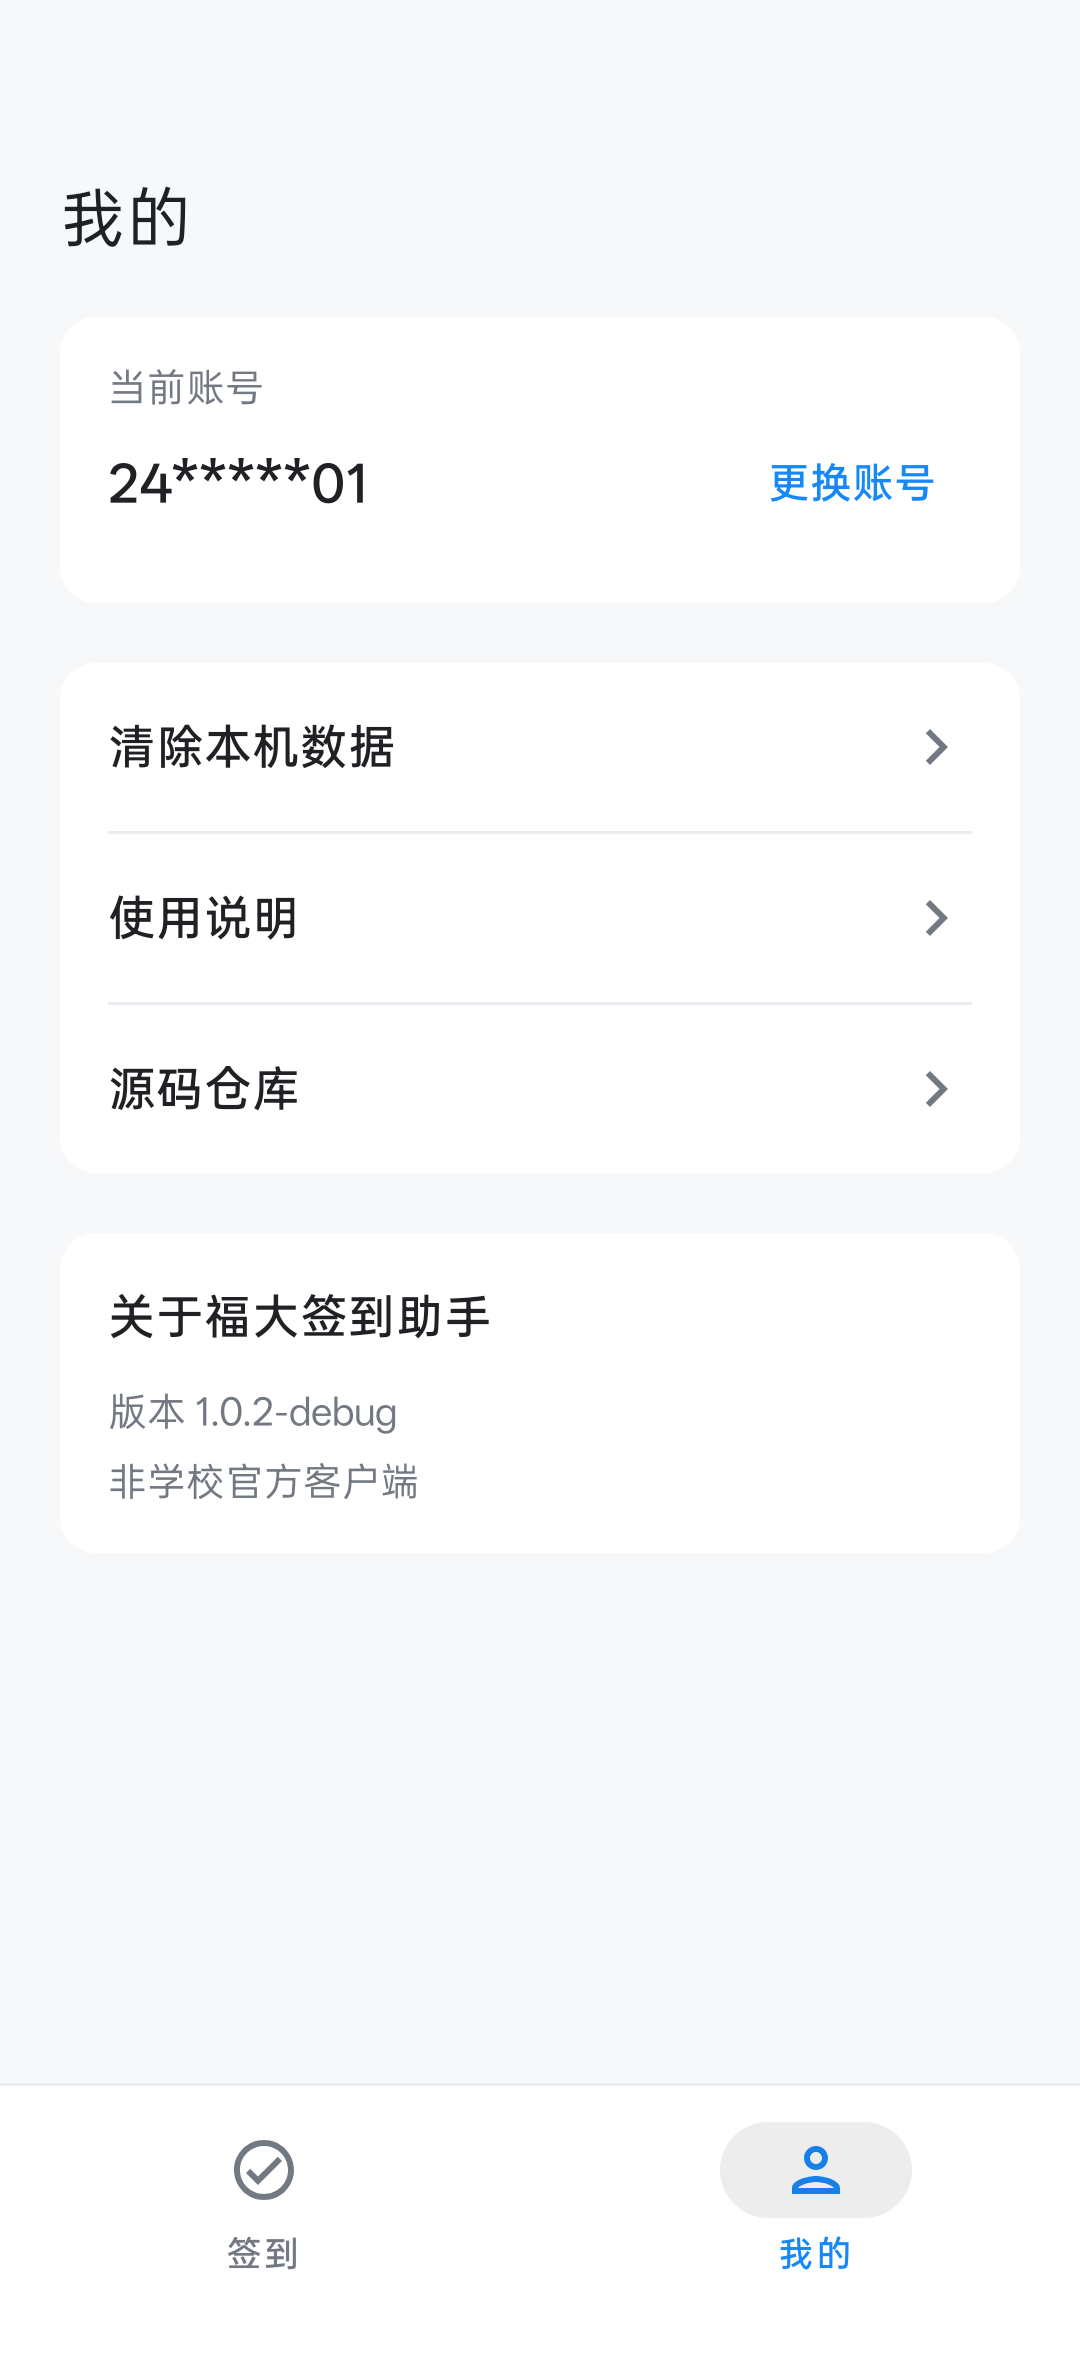
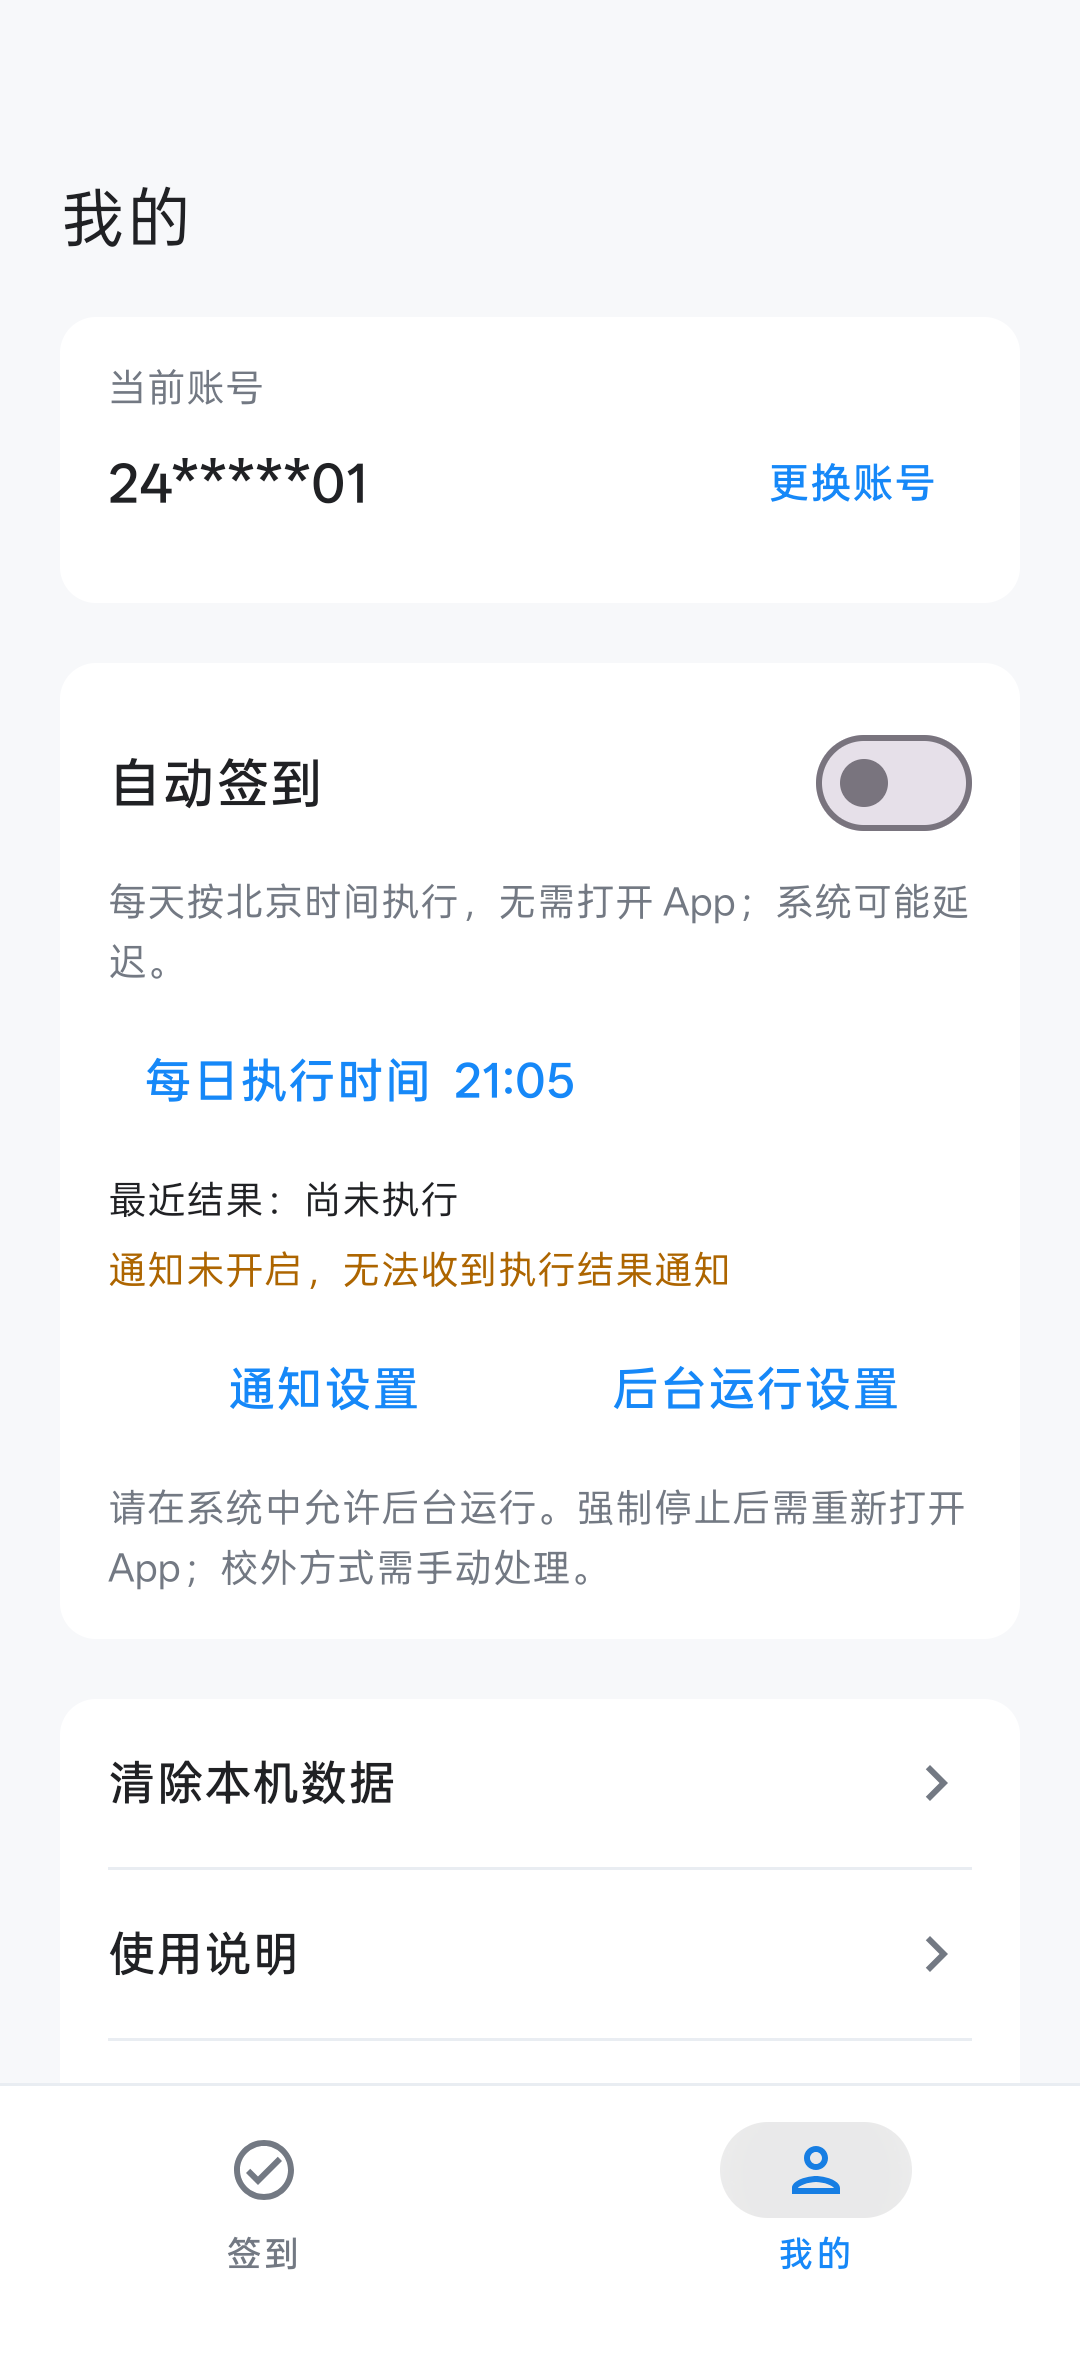
docs: document automation settings and 1.1.0 validation

diff --git a/tools/render_design.py b/tools/render_design.py
@@ -67,14 +67,21 @@ def page(kind, status='ready'):
         else:
             rect((20,118,370,224))
             text(36,136,'当前账号',13,MUTED);text(36,166,'24*****01',20);text(284,172,'更换账号',13,BLUE)
-            rect((20,244,370,410))
+            rect((20,244,370,558))
+            text(36,260,'自动签到',17)
+            active = status == 'automatic'
+            rect((304,260,350,286),BLUE if active else '#B7BCC4',13)
+            d.ellipse(((328 if active else 307)*S,263*S,(347 if active else 326)*S,282*S),fill='white')
+            text(36,303,'每天按北京时间执行，系统可能延迟',13,MUTED)
+            text(36,344,'每日执行时间    21:05',16,BLUE)
+            text(36,388,'预计11月8日21:05开始，可能延迟' if active else '默认关闭，开启后无需打开 App',13)
+            text(36,426,'最近结果：已签到，已跳过（示例）' if active else '最近结果：尚未执行',13,MUTED)
+            text(36,469,'通知设置        后台运行设置',14,BLUE)
+            text(36,514,'校外方式需手动填写地址',13,MUTED)
+            rect((20,578,370,744))
             for idx,label in enumerate(['清除本机数据','使用说明','源码仓库']):
-                text(36,260+idx*54,label,16);text(338,260+idx*54,'›',20,MUTED)
-                if idx<2:line(36,299+idx*54,354,299+idx*54)
-            rect((20,430,370,554))
-            text(36,447,'关于福大签到助手',16)
-            text(36,480,'版本 1.0.2',13,MUTED)
-            text(36,512,'非学校官方客户端',13,MUTED)
+                text(36,594+idx*54,label,16);text(338,594+idx*54,'›',20,MUTED)
+                if idx<2:line(36,633+idx*54,354,633+idx*54)
         rect((0,766,390,844),'white',0); line(0,766,390,766)
         for x,label,active in [(98,'签到',kind=='home'),(292,'我的',kind=='profile')]:
             color=BLUE if active else MUTED
@@ -91,4 +98,5 @@ for i,(name,img) in enumerate(items):
     board.paste(img,((i%3)*820+20,(i//3)*1770+50))
     ImageDraw.Draw(board).text(((i%3)*820+20,(i//3)*1770+10),name,fill=INK,font=ImageFont.truetype(str(FONT),26))
 board.save(OUT/'overview.png')
-print('Rendered six design previews and overview.')
+page('profile','automatic').save(OUT/'auto-settings.png')
+print('Rendered design previews, automation settings and overview.')

diff --git a/docs/design.md b/docs/design.md
@@ -12,7 +12,7 @@
 
 - 登录：原创蓝底白勾图标、应用名、说明、账号密码表单、密码可见性切换、登录按钮、本机加密保存提示。错误内联展示，键盘弹出后页面可滚动。
 - 签到：首页标题及刷新、日期与问候、今日状态、签到时间/方式/学院、地点、配置坐标说明、主按钮和最近查询时间。底部「签到」「我的」。校外模式缺少地址时在地点区域显示地址输入。
-- 我的：脱敏账号、更换账号、清除本机数据、使用说明、版本、源码和非官方说明。清除操作先显示确认对话框。
+- 我的：脱敏账号、更换账号、自动签到、清除本机数据、使用说明、版本、源码和非官方说明。清除操作先显示确认对话框。
 
 ## 状态
 
@@ -20,10 +20,18 @@
 
 ## 设计预览
 
-`previews/` 的 PNG 为业务实现前制作的设计稿，全部使用虚构信息，不是真实服务器响应或真机截图。`tools/render_design.py` 可重新生成。Android 代码同时提供 Compose Preview，以便后续对照。
+`previews/` 的 PNG 为设计稿，全部使用虚构信息，不是真实服务器响应或真机截图。随版本更新，`tools/render_design.py` 可重新生成。Android 代码同时提供 Compose Preview，以便后续对照。
 
-`previews/device/` 为 Android 16 手机运行真实 Compose 组件的仪器测试截图，同样全部使用虚构信息。包括登录、签到、我的、成功、处理中、失败、大字体输入七个场景。截图已检查主要文字、按钮、滚动区域和布局，未发现重叠。
+`previews/device/` 为手机运行真实 Compose 组件的仪器测试截图，同样全部使用虚构信息。首版由 Android 16 生成，1.1.0 的「我的」和自动设置预览在升级为 Android 17 的同一设备上更新。包括登录、签到、我的、自动设置、成功、处理中、失败及大字体输入。截图已检查主要文字、按钮、滚动区域和布局，未发现重叠。
 
 ## 操作约束
 
-启动和刷新只查询，不提交。只有用户点击「签到」才提交；请求期间禁止重复点击。展示「使用配置坐标」，不称为实际定位。首次版本仅手动签到、单账号，不做后台服务和通知。
+默认关闭自动签到，启动和刷新只查询；手动请求期间禁止重复点击。展示「使用配置坐标」，不称为实际定位。保持单账号，无常驻前台服务。
+
+## 自动签到设置（1.1.0）
+
+沿用白色分组和蓝色控件，放在当前账号下方。包含开关、24 小时制时间选择、保存/取消、下次预计执行时间、最近执行结果、通知和后台运行设置入口。页面可滚动，不新增底部导航。
+
+时间初始为北京时间 21:05；开启和时间修改需要保存，取消不生效。关闭已开启的开关立即保存并取消后续任务。首次开启请求通知权限，拒绝不阻止保存。账号未成功加密保存时不能开启。
+
+状态用文字说明：预计执行且可能延迟、查询重试、结果待确认、需手动处理、已暂停。认证恢复后显示「恢复自动签到」，不静默恢复。成功只由学校状态查询确认；校外方式不自动提交。关闭提示已发出的请求无法撤回。后台任务不在首页伪装成用户点击操作。

diff --git a/docs/automation.md b/docs/automation.md
@@ -1,0 +1,38 @@
+# 自动签到实现说明
+
+自动功能默认关闭，用户保存每日北京时间后生效。本文描述 1.1.0 的实现，真实签到要求以学校规定为准。
+
+## 调度与任务有效性
+
+`ScheduleWorker` 不要求网络，先持久安排下一次日历时间，再派发要求联网的 `AutoCheckinWorker`。任务按设置版本、账号代次和执行时间唯一命名，重复安排使用 KEEP。进程启动和系统时间变更时核对已有任务。延迟跨越多个周期时只评估最近一次已到点的周期；保存设置前的周期不会补跑。
+
+修改设置增加版本；清除或更换账号增加代次。旧任务在启动和提交前都检查版本、代次和开关。取消 WorkManager 任务之外，还以数据库检查作为提交前的最后一道约束。签到设定时间必须落在服务器当前返回的学校窗口内，避免上一天的任务误处理次日计划。
+
+## 统一入口与防重
+
+应用级 `CheckinCoordinator` 使用协程 Mutex 串行处理手动操作和 Worker 的登录、查询及提交。Cookie 和 Token 仍只保留在内存。ViewModel 观察协调器的查询状态和数据库设置，使用原子 StateFlow 更新，避免后台结果覆盖设置更新。
+
+`SubmissionGuard` 在 Repository 已重新查询并完成位置检查后、调用 `clockIn.action` 前运行。它检查协程取消状态、自动任务版本、校内方式、服务器时间和窗口，然后同步登记提交。数据库事务失败时不发送请求。
+
+防重键为账号摘要、计划 ID 和学校签到窗口起点。跨午夜的窗口归属开始日；学校原始时间字段仍原样用于协议加密和提交。
+
+| 本机状态 | 含义与后续操作 |
+|---|---|
+| DISPATCHING | 请求即将或已经发出；重启后一律按待确认处理 |
+| PROCESSING | 学校仍在处理，仅查询 |
+| UNKNOWN_RESULT | 响应或确认不完整，仅查询 |
+| SUCCESS | 学校查询已确认成功，禁止重复提交 |
+
+重新登录、修改时间不会清除记录。不同学校窗口有独立键，昨天的未知结果不会永久阻止今天。清除本机数据或卸载会移除本机保护记录，重新登录后应先核实学校状态。
+
+## 重试、暂停和通知
+
+提交前的网络失败最多尝试三次，WorkManager 指数退避约 5、10 分钟，次数同时保存到数据库。超过当前周期或学校时段不再提交。服务器时间不可用不采用手机时间替代。
+
+提交后立即查询；仍未确认时，`ConfirmWorker` 只查询，后续最多两次，延迟约 1、5 分钟。查询次数也持久保存。计划已变化时不能把新计划的成功视为旧提交成功。认证或验证码错误暂停自动功能，用户成功登录后仍需明确恢复。
+
+结果通知权限可拒绝，拒绝不影响设置和执行。通知不包含账号、认证数据或详细地址。没有精确闹钟或常驻前台服务，系统省电和后台限制可能导致延迟；强制停止后需打开应用恢复调度。
+
+## 验证
+
+AutomationTest 覆盖执行决策、持久化、重试、并发、最终提交检查和崩溃恢复；SchedulerTest 检查唯一任务、网络约束和取消；Compose 与真机测试使用虚构状态检查设置交互，不调用学校接口。

diff --git a/docs/verification.md b/docs/verification.md
@@ -59,7 +59,21 @@
 - [v1.0.2 Release](https://github.com/DriOgon/FZU-GPS/releases/tag/v1.0.2) 已发布；远程附件校验值与本地安装包一致。
 - 经用户确认，v1.0.1 Release 的旧 APK 和校验附件已撤下，旧版页面引导下载 1.0.2；本地备份、版本标签与 Git 提交历史保留。
 
-## 后续真机验收清单
+## 1.1.0 自动签到验证（2026-11-07）
+
+- 共 71 项 JVM 测试通过，0 失败、0 错误：自动签到决策/存储/并发 30，WorkManager 调度 3，认证 4，协议 9，Repository 14，Compose 7，ViewModel 4。
+- 验证默认关闭、首次执行严格安排到未来、时区换算、最多三次查询、验证码/认证暂停、恢复重新认证、校外停止、最终提交前方式/时间/设置变化、持久登记失败禁止提交、修改时间不等待旧请求、并发只提交一次。
+- 验证提交记录重建后仍有效，修改时间与重新登录不消除未知结果，跨午夜窗口使用同一键，新窗口不继承昨日阻塞；即时与延迟确认都不能把不同计划的成功视为原提交成功。
+- WorkManager 测试验证调度不依赖网络、执行/确认等待联网、唯一工作去重和旧版本任务取消。
+- Debug 构建、71 项测试及 Lint 通过；签名 Release 构建和 Lint 通过。Debug/Release Lint 均为 0 错误，依赖更新等建议仍保留。
+- 同一台 PLJ110、Android 17 / API 37 手机的 9 项仪器测试通过，覆盖加密存储、原界面及自动设置开关。测试使用虚构状态，不构造学校网络客户端，不发起真实签到。新增和更新的两张真机设置截图已目视检查，无文字重叠。
+- 正式版由 1.0.2 覆盖安装为 1.1.0（versionCode 4），原加密账号保留并成功登录；自动开关处于关闭状态，默认时间 21:05；系统时间选择器打开和取消正常，未保存任何真实自动任务。
+- APK 签名验证通过，证书与旧版一致；从手机只读取公开安装路径并拉取安装包后，SHA-256 与最终交付文件一致。源码与 APK 的个人凭据检查和指定文案/链接检查均通过。
[1 lines of base64/hex data omitted]
+- 业务代码提交为 `9e5b712`。文档、设计稿、真机截图和待发布说明单独提交；旧提交及 v1.0.1/v1.0.2 标签保持不变。1.1.0 尚未创建 GitHub Release。
+- 尚未实测：用户真实账号的后台自动签到、不同厂商省电策略下的长时间锁屏执行、真实设备重启后的到点执行和第二台手机兼容性。相关决策与持久恢复已由模拟测试覆盖，不能视为这些真机场景已经验收；真实自动任务由用户主动开启验证。
+
+## 后续真机验收清单（通用）
 
 连接 Android 手机并在手机上允许 USB 调试后，用独立 `.debug` 包完成虚构数据的界面和存储测试，再安装签名 Release APK。账号密码由用户在手机输入，实际签到由用户手动发起。
 

diff --git a/docs/releases/1.1.0.md b/docs/releases/1.1.0.md
@@ -1,0 +1,11 @@
+# 福大签到助手 1.1.0
+
+- 新增可选每日自动签到：默认关闭，自行设定北京时间并保存，之后无需打开 App，可随时修改。
+- 新增结果通知、最近执行结果、暂停恢复和系统设置入口；拒绝通知不影响执行。
+- 手动和自动签到共用入口，提交记录持久保存。响应超时、进程重启后只查询确认，不自动重复提交。
+- 每次核对学校最新计划、服务器时间和签到方式。校外方式需手动填写地址；验证码或认证失败暂停自动功能。
+- 沿用原包名和发布签名，支持覆盖升级并保留账号；升级后自动功能保持关闭。
+
+后台执行可能因系统省电、后台限制或网络延迟，不能保证准时或在截止前完成。强制停止后需重新打开 App。学校查询确认成功才算签到成功，真实后台执行需在自己的设备上主动开启后验证。
+
+此文件是待发布说明，不代表 GitHub Release 已创建。安装包和校验文件应作为 Release 附件上传，不进入源码历史。验证范围见 `docs/verification.md`。
